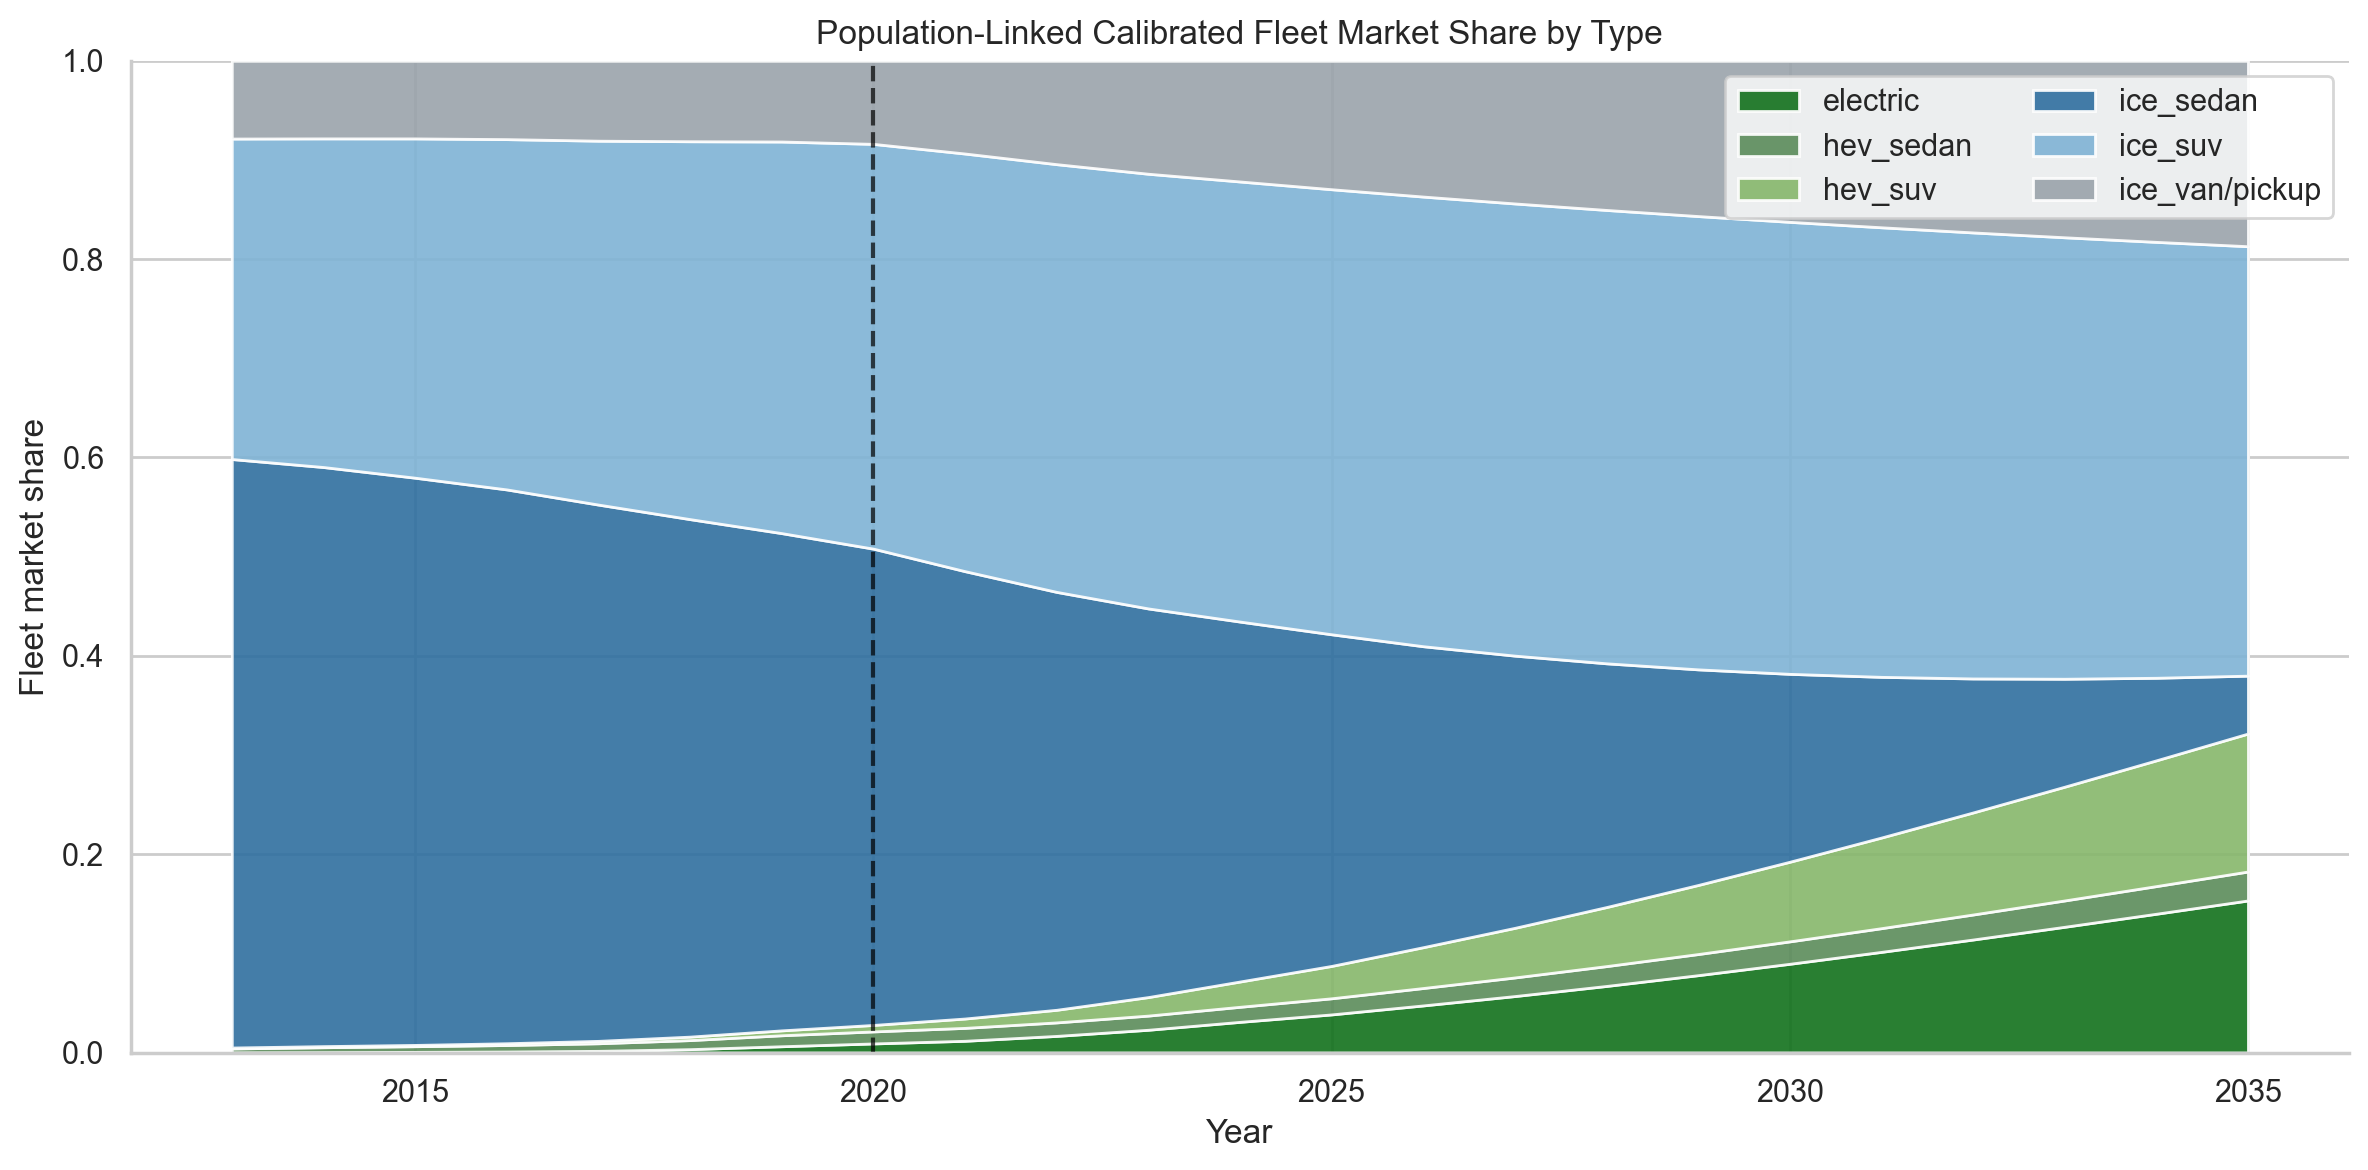
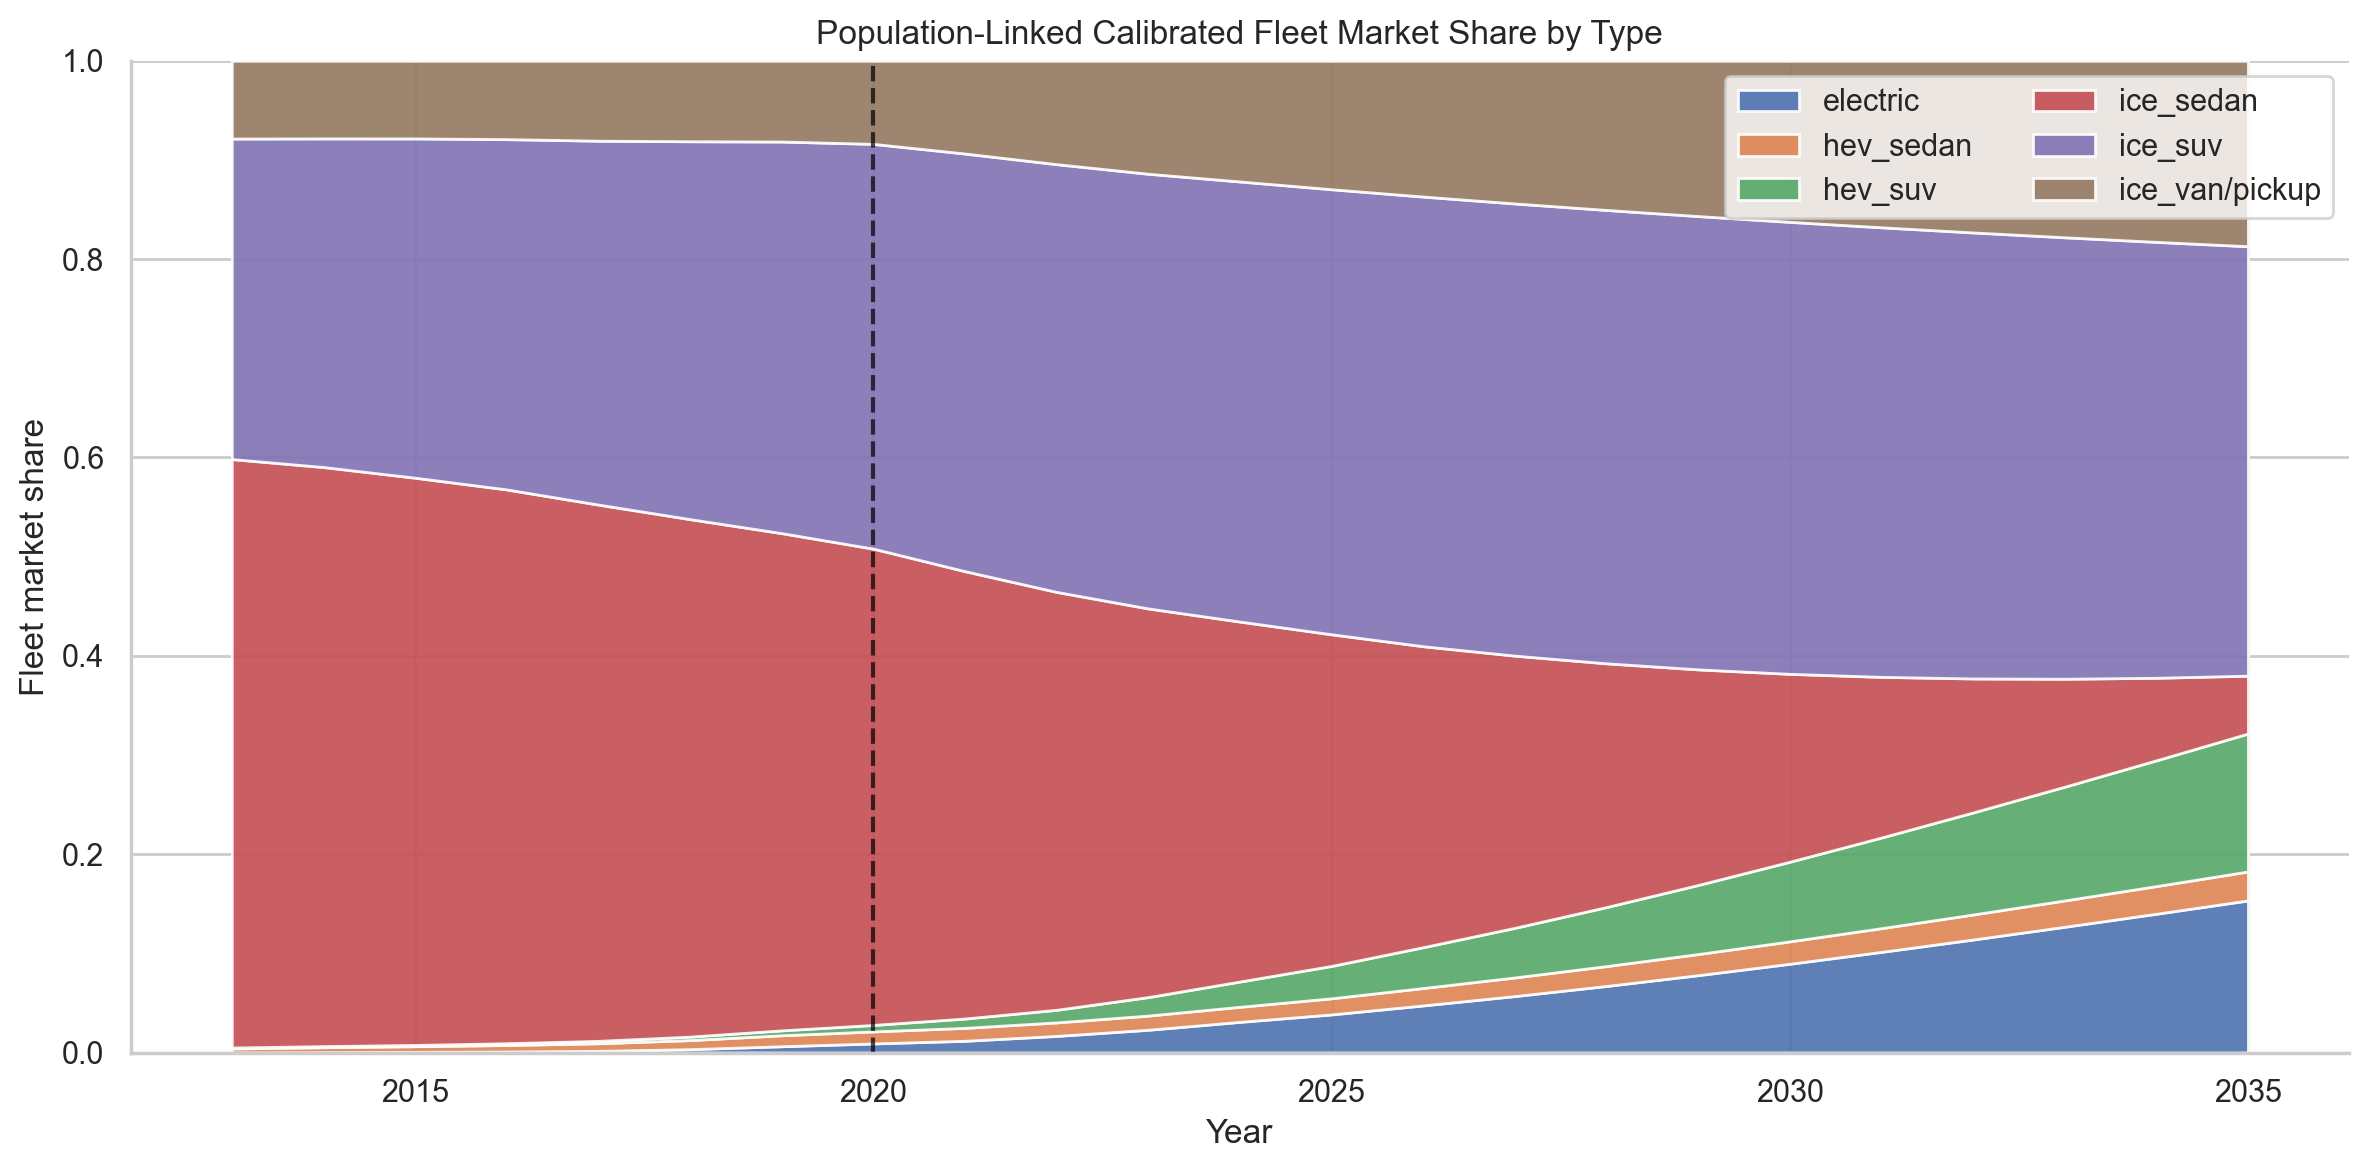
organization

diff --git a/adoption prediction model/README.md b/adoption prediction model/README.md
@@ -7,13 +7,17 @@ This folder has been reduced to the replacement-dynamics workflow only.
 - `.cache/`
   Cached SAAQ datasets used by the notebooks.
 
+- `datasets/`
+  Local reference datasets used by the calibrated notebook:
+  - [Fig1-NMVRegist.xlsx](/Users/natomanzolli/Documents/GitHub/MATSim-agent-vehicle-assignment/adoption prediction model/datasets/Fig1-NMVRegist.xlsx)
+  - [1710000901-eng.csv](/Users/natomanzolli/Documents/GitHub/MATSim-agent-vehicle-assignment/adoption prediction model/datasets/1710000901-eng.csv)
+
 - `notebooks/`
   The replacement-dynamics notebooks:
   - [replacement_dynamics_adoption_model.ipynb](/Users/natomanzolli/Documents/GitHub/MATSim-agent-vehicle-assignment/adoption prediction model/notebooks/replacement_dynamics_adoption_model.ipynb)
   - [replacement_dynamics_adoption_model_fsa.ipynb](/Users/natomanzolli/Documents/GitHub/MATSim-agent-vehicle-assignment/adoption prediction model/notebooks/replacement_dynamics_adoption_model_fsa.ipynb)
   - [replacement_dynamics_entry_exit_model.ipynb](/Users/natomanzolli/Documents/GitHub/MATSim-agent-vehicle-assignment/adoption prediction model/notebooks/replacement_dynamics_entry_exit_model.ipynb)
   - [replacement_dynamics_ev_calibrated_model.ipynb](/Users/natomanzolli/Documents/GitHub/MATSim-agent-vehicle-assignment/adoption prediction model/notebooks/replacement_dynamics_ev_calibrated_model.ipynb)
-  - [replacement_dynamics_ev_population_scenarios.ipynb](/Users/natomanzolli/Documents/GitHub/MATSim-agent-vehicle-assignment/adoption prediction model/notebooks/replacement_dynamics_ev_population_scenarios.ipynb)
 
 - `validation_outputs/`
   Outputs produced by the replacement-dynamics notebooks:
@@ -35,9 +39,6 @@ This folder has been reduced to the replacement-dynamics workflow only.
 
 4. [replacement_dynamics_ev_calibrated_model.ipynb](/Users/natomanzolli/Documents/GitHub/MATSim-agent-vehicle-assignment/adoption prediction model/notebooks/replacement_dynamics_ev_calibrated_model.ipynb)
    The replacement model with the full future entry-share mix calibrated from external quarterly new-vehicle registrations, 2017 to 2025 Q1, and total fleet growth linked to the Quebec population reference.
-
-5. [replacement_dynamics_ev_population_scenarios.ipynb](/Users/natomanzolli/Documents/GitHub/MATSim-agent-vehicle-assignment/adoption prediction model/notebooks/replacement_dynamics_ev_population_scenarios.ipynb)
-   The EV-calibrated replacement model with total-fleet trajectories linked to Quebec population projection scenarios instead of a simple linear fleet-growth assumption.
 
 ## Cache files
 
